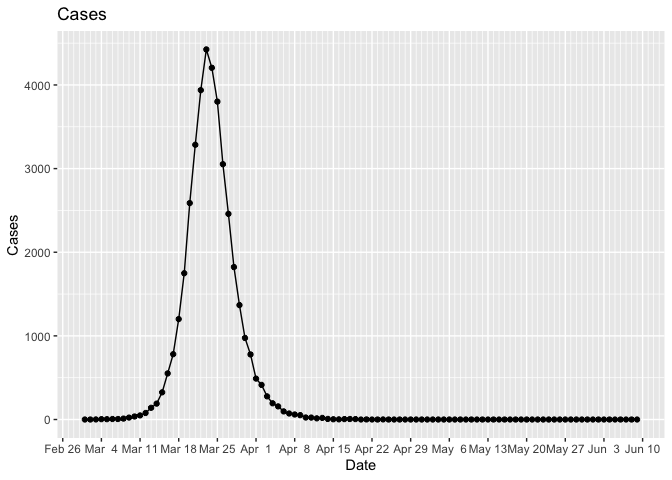
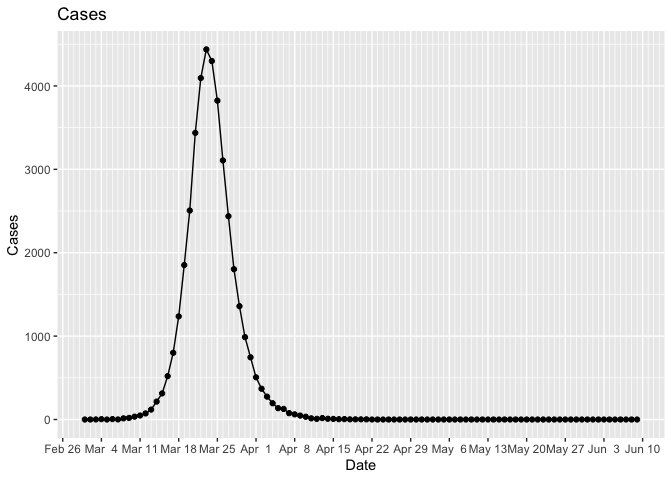
Update

diff --git a/data-raw/README.md b/data-raw/README.md
@@ -15,26 +15,26 @@ that we can test the model.
 
 ``` r
 cases <- generate_epi_cases(staff_per_100K = 1200,
-                               staff_recovery_delay = 6,
-                               staff_absenteeism = 0.03)
+                            staff_recovery_delay = 6,
+                            staff_absenteeism = 0.03)
 cases
 ```
 
     ## # A tibble: 101 × 7
-    ##      Day Date        Model Cases Model_Available_Staff Model_Unavailable_Staff
-    ##    <int> <date>      <dbl> <dbl>                 <dbl>                   <dbl>
-    ##  1     1 2024-03-01  0         0                 1176                     24  
-    ##  2     2 2024-03-02  0.624     0                 1147.                    52.7
-    ##  3     3 2024-03-03  1.01      1                 1124.                    76.3
-    ##  4     4 2024-03-04  1.65      4                 1104.                    95.6
-    ##  5     5 2024-03-05  2.67      4                 1089.                   111. 
-    ##  6     6 2024-03-06  4.34      6                 1076.                   124. 
-    ##  7     7 2024-03-07  7.05      6                 1065.                   135. 
-    ##  8     8 2024-03-08 11.4      11                 1056.                   144. 
-    ##  9     9 2024-03-09 18.6      23                 1049.                   151. 
-    ## 10    10 2024-03-10 30.1      36                 1042.                   158. 
+    ##      Day Date        Model Cases AvailableStaff Model_Available_Staff
+    ##    <int> <date>      <dbl> <dbl>          <dbl>                 <dbl>
+    ##  1     1 2024-03-01  0         0           1122                 1176 
+    ##  2     2 2024-03-02  0.624     0           1126                 1147.
+    ##  3     3 2024-03-03  1.01      1           1149                 1124.
+    ##  4     4 2024-03-04  1.65      4           1161                 1104.
+    ##  5     5 2024-03-05  2.67      0           1076                 1089.
+    ##  6     6 2024-03-06  4.34      5           1098                 1076.
+    ##  7     7 2024-03-07  7.05      1           1065                 1065.
+    ##  8     8 2024-03-08 11.4      14           1101                 1056.
+    ##  9     9 2024-03-09 18.6      19           1090                 1049.
+    ## 10    10 2024-03-10 30.1      34           1034                 1042.
     ## # ℹ 91 more rows
-    ## # ℹ 1 more variable: AvailableStaff <dbl>
+    ## # ℹ 1 more variable: Model_Unavailable_Staff <dbl>
 
 Plot the cases
 
